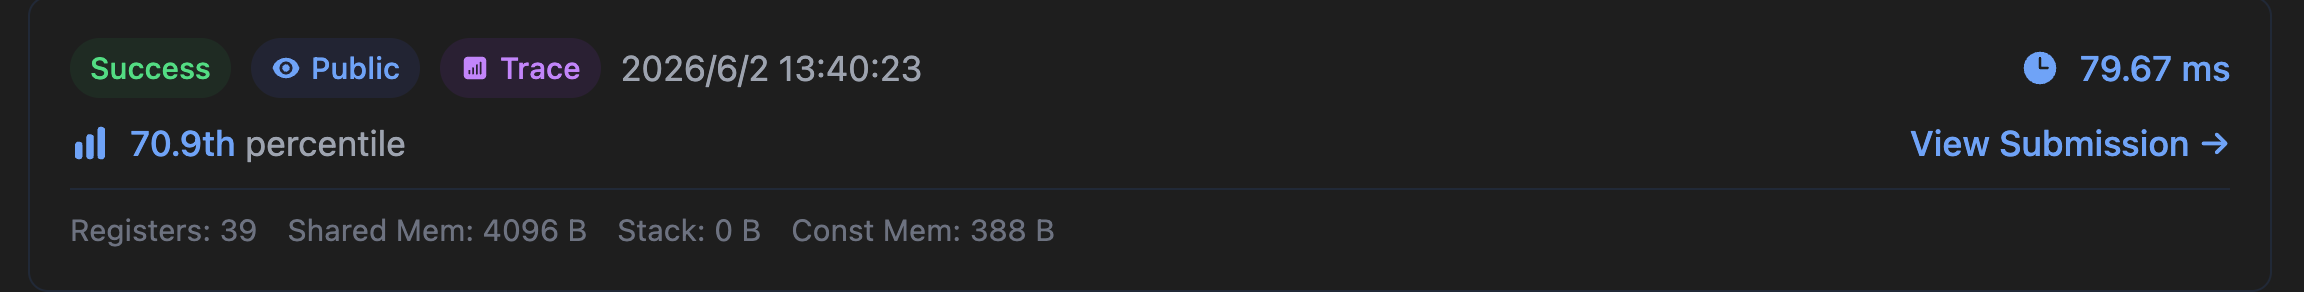
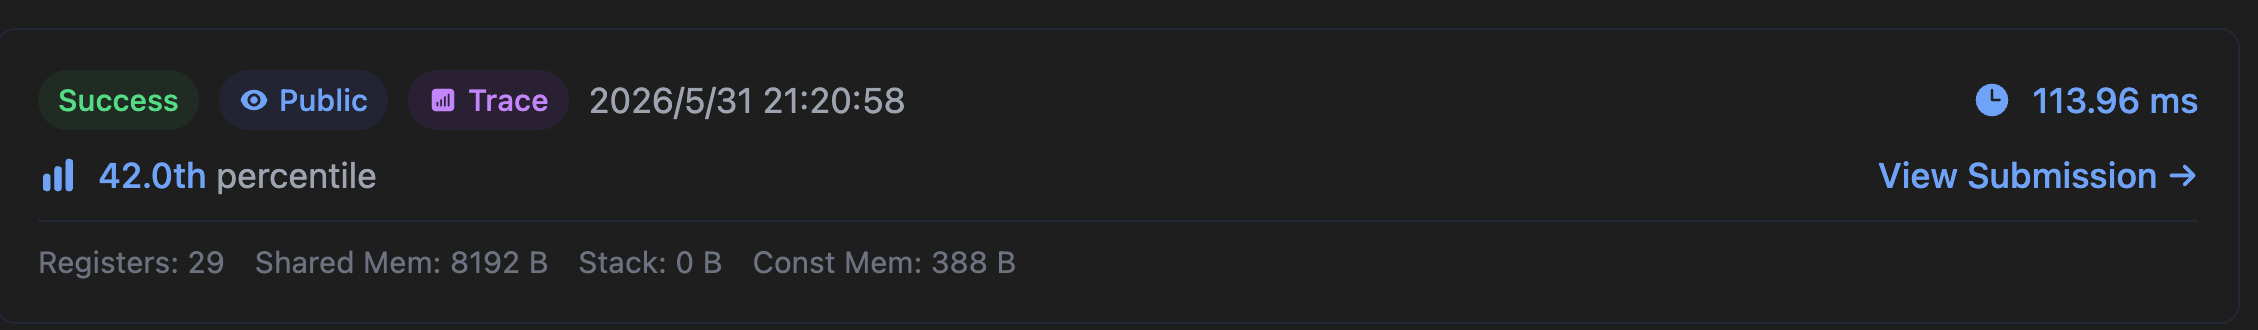
Add matmul register tiling section

diff --git a/src/content/blog/matmul.md b/src/content/blog/matmul.md
@@ -327,20 +327,116 @@ constexpr int kTileK = 32;
 所谓shared memory tiling，就是把原本反复从HBM读取的数据，先搬到Shared Memory，再让很多线程重复使用。
 但根据[该图](#fig-gpu-bandwidth-hierarchy), register的读写要比shared memory快得多。
 
-[shared memory tiling](#shared-memory-kernel-code)的代码在compute时，每一次从shared memory读取数据后，都只计算一个sum，也就是$A$的某一行的一部分和$B$的某一列的一部分的reduce (见[此图](#fig-matmul-shared-memory-compute))。
-这个操作的问题是，数据从shared memory运到register后，reduce一次就结束了；也就是说，每个thread读到的`A`/`B`值只更新自己当前负责的一个`sum`，没有在register里继续服务同一个thread的其他输出元素。
+[shared memory tiling](#shared-memory-kernel-code)的代码在compute时，每一次从shared memory读取数据到register后，都只计算一个sum，也就是$A$的某一行的一部分和$B$的某一列的一部分的reduce: `sum += a_tile[local_row][k] * b_tile[k][local_col];` (见[此图](#fig-matmul-shared-memory-compute))。之后，这部分register的数据就会被下一次运行覆盖，也就是说，register的数据复用很差。
 
-<!-- 但这还不够，这当前kernel的基础上稍作改动就可以再一次提高$AI$。
-我们看以下全局设置
+因此，一个符合直觉的做法是，对于load进register的数据，我们多用几次，多算几轮。为此，我们可以把`sum += a_tile[local_row][k] * b_tile[k][local_col];`升级为
 ```cpp
+for (int thread_row = 0; thread_row < thread_tile_m; ++thread_row) {
+    float a_value = a_tile[local_row_start + thread_row][k];
+    #pragma unroll
+    for (int thread_col = 0; thread_col < thread_tile_k; ++thread_col) {
+        accum[thread_row][thread_col] +=
+            a_value * b_tile[k][local_col_start + thread_col];
+    }
+}
+```          
+这里，`thread_tile_m`表示的是一个thread要在$M$的维度上处理多少个数据。如下图所示，每个thread负责把矩阵$A$中存储在shared memory的矩阵块(粉色)的两行(粗黑框网格填充)和矩阵$B$中存储在shared memory的矩阵块(绿色)的两列(粗黑框网格填充)先load进入register，然后两两reduce。
+
+![](../pics/matmul-register-tiling-compute.png)
+
+代码如下：
+```cpp
+#include <cuda_runtime.h>
+#include <algorithm>
+
 constexpr int kTileM = 32;
 constexpr int kTileN = 32; // reduce
 constexpr int kTileK = 32;
+constexpr int kThreadTileM = 4;
+constexpr int kThreadTileK = 4;
+
+__host__ __device__ static inline int ceil_div_int(int x, int y) {
+    return (x + y - 1) / y;
+}
+
+template <int m_block_size, int n_tile_size, int k_block_size, int thread_tile_m, int thread_tile_k>
+__global__ void matrix_multiplication_kernel(const float* A, const float* B, float* C, int M, int N, int K) {
+    static_assert(m_block_size % thread_tile_m == 0, "thread_tile_m must divide m_block_size");
+    static_assert(k_block_size % thread_tile_k == 0, "thread_tile_k must divide k_block_size");
+    __shared__ float a_tile[m_block_size][n_tile_size];
+    __shared__ float b_tile[n_tile_size][k_block_size];
+    int threads = blockDim.x * blockDim.y;
+    for (int c_row_block = blockIdx.y; c_row_block < ceil_div_int(M, m_block_size); c_row_block += gridDim.y) {
+        for (int c_col_block = blockIdx.x; c_col_block < ceil_div_int(K, k_block_size); c_col_block += gridDim.x) {
+           int local_row_start = threadIdx.y * thread_tile_m;
+           int local_col_start = threadIdx.x * thread_tile_k;
+           int tid = threadIdx.x + blockDim.x * threadIdx.y;
+           int local_A_block_size = m_block_size * n_tile_size;
+           int local_B_block_size = k_block_size * n_tile_size;
+           float accum[thread_tile_m][thread_tile_k] = {0.0f};
+           #pragma unroll
+           for (int n = 0; n < N; n += n_tile_size) {
+                // load into shared memory
+                for (int i = tid; i < local_A_block_size; i += threads) {
+                    int a_tile_col = i % n_tile_size;
+                    int a_tile_row = i / n_tile_size;
+                    int global_a_row = c_row_block * m_block_size + a_tile_row;
+                    int global_a_col = n + a_tile_col;
+                    a_tile[a_tile_row][a_tile_col] =
+                        (global_a_row < M && global_a_col < N) ? A[global_a_row * N + global_a_col] : 0.0f;
+                }
+                for (int i = tid; i < local_B_block_size; i += threads) {
+                    int b_tile_col = i % k_block_size;
+                    int b_tile_row = i / k_block_size;
+                    int global_b_row = n + b_tile_row;
+                    int global_b_col = c_col_block * k_block_size + b_tile_col;
+                    b_tile[b_tile_row][b_tile_col] =
+                        (global_b_row < N && global_b_col < K) ? B[global_b_row * K + global_b_col] : 0.0f;
+                }
+                __syncthreads();
+                // load into register and compute
+                #pragma unroll
+                for (int k = 0; k < n_tile_size; ++k) {
+                    #pragma unroll
+                    for (int thread_row = 0; thread_row < thread_tile_m; ++thread_row) {
+                        float a_value = a_tile[local_row_start + thread_row][k];
+                        #pragma unroll
+                        for (int thread_col = 0; thread_col < thread_tile_k; ++thread_col) {
+                            accum[thread_row][thread_col] +=
+                                a_value * b_tile[k][local_col_start + thread_col];
+                        }
+                    }
+                }
+                __syncthreads();
+           }
+           #pragma unroll
+           for (int thread_row = 0; thread_row < thread_tile_m; ++thread_row) {
+               int c_row = c_row_block * m_block_size + local_row_start + thread_row;
+               #pragma unroll
+               for (int thread_col = 0; thread_col < thread_tile_k; ++thread_col) {
+                   int c_col = c_col_block * k_block_size + local_col_start + thread_col;
+                   if (c_row < M && c_col < K) {
+                       C[c_row * K + c_col] = accum[thread_row][thread_col];
+                   }
+               }
+           }
+        }
+    }
+}
+
+// A, B, C are device pointers (i.e. pointers to memory on the GPU)
+extern "C" void solve(const float* A, const float* B, float* C, int M, int N, int K) {
+    dim3 threadsPerBlock(kTileK / kThreadTileK, kTileM / kThreadTileM);
+    dim3 blocksPerGrid(ceil_div_int(K, kTileK), ceil_div_int(M, kTileM));
+
+    matrix_multiplication_kernel<kTileM, kTileN, kTileK, kThreadTileM, kThreadTileK>
+        <<<blocksPerGrid, threadsPerBlock>>>(A, B, C, M, N, K);
+    cudaDeviceSynchronize();
+}
+
 ```
-如果换成
-```cpp
-constexpr int kTileM = 128;
-constexpr int kTileN = 4; // reduce
-constexpr int kTileK = 128;
-```
-那么，compute的FLOPS是没变的，$128\times 4\times 128 \times 2 = 32 \times 32 \times 32 \times 2$。但是从HBM搬运的bytes变少了，从$(32 \times 32 + 32 \times 32) \times 4=8192\text{bytes}$变成了$(128 \times 4 + 128 \times 4) \times 4=4096\text{bytes}$。因此$AI$翻倍 -->
+
+看一眼性能，进步了一大截 :)
+![](../pics/matmul-register-tiling-timing.png)
+
+但register tiling还有进步空间，因为它并没有改变$AI$，而是改变了片上存储层级里的数据复用方式：让同一次从shared memory运到register的数据参与多个accumulator的更新，而不是只reduce一次就被覆盖。